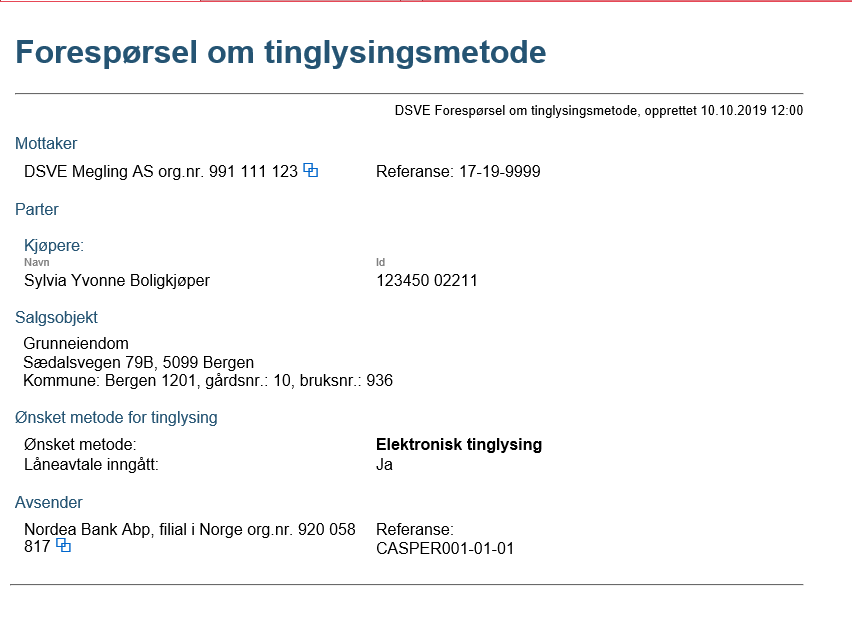
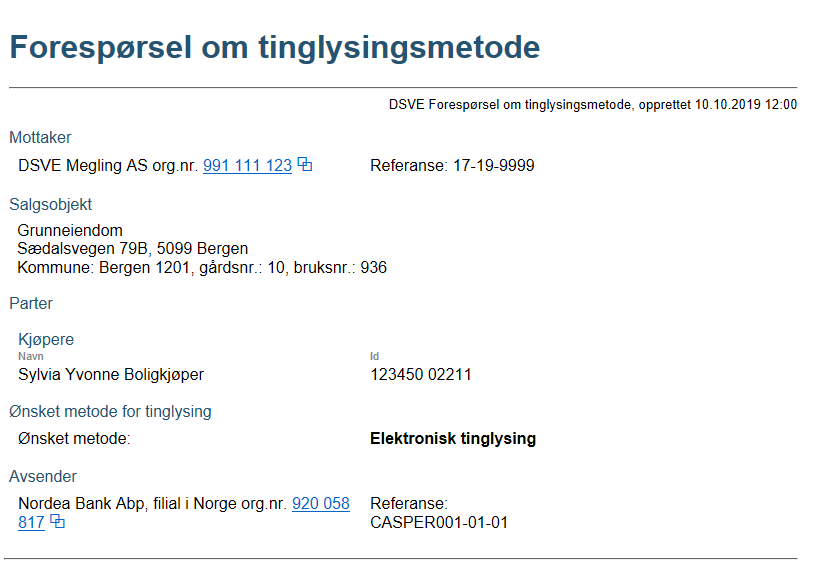
oppdatert etter arbeidsmøte. droppet info om låneavtale inngått. innført info om megler har papirutgave av signert skjøte. fjernet status uavklart og håndterer ack/nack som manifest keys "status" og "statusDescription" som ligger utenfor selve meldingspayload (tilsvarende metode brukt for overføring

diff --git a/spesifikasjoner/afpant/afpant-intensjon/intensjon-0-1-0.md b/spesifikasjoner/afpant/afpant-intensjon/intensjon-0-1-0.md
@@ -1,28 +1,30 @@
 # Intensjon om ønsket tinglysingsmetode 
-En bank kan sende forespørsel om tinglysingsmetode til en megler basert på kjøpers fødsels- og personnummer og eiendomsobjektet som skal finansieres. Banken inkluderer sin egen intensjon om tinglysingsmetode i forespørselen. Banken kan også angi (valgfritt) om hvorvidt låneavtale er inngått. 
+En bank kan sende forespørsel om tinglysingsmetode til en megler basert på kjøpers fødsels- og personnummer og eiendomsobjektet som skal finansieres. Banken inkluderer sin egen intensjon om tinglysingsmetode i forespørselen. 
 
-I et scenario hvor boligkjøper har innhentet tilbud fra flere banker vil megler måtte forvente å motta forespørsel om intensjon fra flere banker. Informasjon om at låneavtale er inngått er en saksopplysning til megler som kan forenkle videre samhandling.
+I et scenario hvor boligkjøper har innhentet tilbud fra flere banker vil megler måtte forvente å motta forespørsel om intensjon fra flere banker. 
 
-Megler vil besvare forespørselen med en forsendelse som inneholder strukturerte data samt gjeldende intensjon om tinglysingmetode.
+Megler vil besvare forespørselen med en forsendelse som inneholder strukturerte data om eiendommen og partene, gjeldende intensjon om tinglysingmetode samt informasjon om hvorvidt signert skjøte/hjemmelsovergang på papir er registrert i meglers depot (papir er reserveløsning).
 
 *NB!* Bank må håndtere at gjeldende metode kan ha verdi  "**Uavklart**" (megler har ikke tatt stilling til metode).
 
 Dersom forespørselen ikke kan besvares, vil banken få en feilmelding i retur som beskriver hvorfor megler ikke kan besvare forespørselen.
-
-## Forspørsel om intensjon
-Forespørsel sendes mellom partene for å få vite mottakers gjeldende intensjon om tinglysingmetode, i tillegg til å opplyse om avsenders gjeldende intensjon.
-Det forventes at positivt svar er en melding som definert under.
-
+ 
 ## Håndtering av endret intensjon
 Ved endringer i valgt tinglysingmetode må det kringkastes en oppdatering fra den som endrer sin intensjon. 
 
-### Implementasjonsbeskrivelse: ruting (meglersystem)
+## Validering og ruting
+### Ruting (meglersystem)
 - mottakende systemleverandør søker blant alle sine kunders matrikkelenhet(er)
 - utvalget avgrenses til matrikkelenheter som tilhører meglersaker hvor organisasjonsnummeret til _enten_ meglerforetaket eller oppgjørsforetaket på meglersaken er lik organisasjonsnummeret pantedokumentet er sendt til ("reportee")
 - utvalget avgrenses til meglersaker hvor **minst 1 kjøper i forespørselen er registrert som kjøper på meglersaken** 
  
-### Implementasjonsbeskrivelse: ruting (banksystem)
-@TODO: angi fornuftige krav til ruting ved kringkasting av endring fra meglersystem til banksystem.
+### Ruting (banksystem)
+- mottakende systemleverandør søker blant alle sine kunders matrikkelenhet(er) 
+- utvalget avgrenses til lånesaker hvor **minst 1 kjøper i forespørselen er registrert som debitor i lånesaken** 
+
+## Forespørsel om intensjon
+Forespørsel sendes mellom partene for å få vite mottakers gjeldende intensjon om tinglysingmetode, i tillegg til å opplyse om avsenders gjeldende intensjon.
+
 
 ### Manifest
 (BrokerServiceInitiation.Manifest.PropertyList)
@@ -35,10 +37,10 @@ Ved endringer i valgt tinglysingmetode må det kringkastes en oppdatering fra de
 En ZIP-fil som inneholder en XML med requestdata ihht. [definert skjema.](../afpant-model/xsd/dsve-1.0.0.xsd)
 
 #### Om payload *(request)*
-- En xml-fil som er i henhold til xsd-filen.
+- En xml-fil av modell **Intensjonsforespoersel** som er i henhold til [definert skjema.](../afpant-model/xsd/dsve-1.0.0.xsd)
 - [Se eksempel på presentasjon](examples/intensjonsforespoersel-example.png)
 
-##### Model
+##### Modell
 ![model intensjonsforespørsel](examples/intensjonsforespoersel-model.png "Model for forespørsel om kjøpekontrakt")
 <hr/>
 
@@ -53,22 +55,23 @@ Dersom avsender oppgir referanse skal denne inkluderes som mottakers referanse i
 |Manifest key|Type|Required|Beskrivelse|
 |--- |--- |--- |--- |
 |messageType|String|Yes|JudicialRegistrationMethodIntentResponse|
+|status|String (enum)|Yes|Denne kan være en av følgende statuser: <br>- RoutedSuccessfully <br>- UnknownJudicialRegistrationMethod (Kun relevant ved svar fra megler til bank: megler har ikke tatt stilling til tinglysingsmetode) <br>- UnknownCadastre (ukjent matrikkelenhet) <br>- BuyerMismatch (fant matrikkelenhet, men kjøper eller navn/id på kjøper matcher ikke registrerte data hos mottaker) <br>- Rejected (sendt til et organisasjonsnummer som ikke lenger har et aktivt kundeforhold hos leverandøren - feil config i Altinn AFPANT, eller ugyldig forsendelse).<br><br>Kun status '**RoutedSuccessfully**' er å anse som ACK (positive acknowledgement) hvor . Øvrige statuser er å anse som NACK (negative acknowledgement).|
+|statusDescription|String|Yes|Inneholder en utfyllende human-readable beskrivelse om hvorfor en forsendelse ble NACK'et.|
 
 ### Payload
-En ZIP-fil som inneholder en XML med responsdata ihht. gitte xsd.
-Tilknytting av ZIP-fil til forsendelsen kan gjøres ved bruk av BrokerServiceExternalBasicStreamedClient / StreamedPayloadBasicBE.
+En ZIP-fil som inneholder en XML med requestdata ihht. [definert skjema.](../afpant-model/xsd/dsve-1.0.0.xsd)
 		
 #### Om payload *(response)*
 
-##### Positiv resultat
-- Må være en xml-fil som er ihht. [definert skjema](../afpant-model/xsd/dsve-1.0.0.xsd).
-- Se eksempel på presentasjon [Eksempel](examples/intensjonssvar-example.png)
+##### Positiv resultat (ACK)
+- Må være en xml-fil av modell **Intensjonssvar** som er ihht. [definert skjema](../afpant-model/xsd/dsve-1.0.0.xsd).
+- Se eksempel på presentasjon: [Eksempel](examples/intensjonssvar-example.png)
 
-##### Model
+##### Modell
 ![model intensjon](examples/intensjonssvar-model.png "Model for intensjonssvar")
 
-##### Negativt resultat
-- @todo: Må definere hvor ack/navk-informasjon skal legges
+##### Negativt resultat (NACK)
+- Tom payload returneres (ZIP arkiv med dummy innhold). Manifest key "status" og "statusDescription" må avleses for årsak. 
 
 ## Eksempel
 

diff --git a/README.md b/README.md
@@ -72,8 +72,7 @@ Websystemer AS | Megler
 Nordea | Bank
 Evry | Bank
 
-#### Aktørregister (under utarbeidelse)
-Et aktørregister er under utarbeidelse. Aktørregisteret blir utviklet og administrert av Kartverket.  Aktørregisteret har oversikt over hvilke organisasjonsnumre (banker og eiendomsmeglere) som er mulig å samhandle med, samt hvilke meldingstyper hver organisasjon har implementert støtte for.
+
  
 #### Dokumentpakke 1 - Elektronisk tinglysing
 ##### Kjøpers pantedokument og evt følgebrev
@@ -81,6 +80,19 @@ Et aktørregister er under utarbeidelse. Aktørregisteret blir utviklet og admin
 * Overføring av følgebrev som PDF eller XML 
 * ACK/NACK-kvittering fra mottakersystem til avsendersystem med informasjon om forsendelsen kunne rutes korrekt
 * [Oversikt og spesifikasjoner](https://github.com/bitsnorge/e-tinglysing-afpant/blob/master/spesifikasjoner/afpant/afpant-kjøperspantedokument/readme.md)
+
+##### Intensjonsmelding
+* Forespørsel og statusoppdatering mellom bank <-> megler om det er planlagt bruk av  elektronisk tinglysing.
+* [Spesifikasjon er under utarbeidelse](https://github.com/bitsnorge/e-tinglysing-afpant/issues/4)
+
+
+##### Statusoppdatering etter e-tinglysing
+* Statusoppdatering fra megler til kjøpers bank etter gjennomført e-tinglysing for overføring av tinglysingsdetaljer (dokumentnummer)
+* [Spesifikasjon er under utarbeidelse](https://github.com/bitsnorge/e-tinglysing-afpant/issues/3)
+
+##### Aktørregister
+Et aktørregister er under utarbeidelse av Kartverket.  Aktørregisteret har oversikt over hvilke organisasjonsnumre (banker og eiendomsmeglere) som er mulig å samhandle med, samt hvilke meldingstyper hver organisasjon har implementert støtte for. Testmiljø tilgjengeliggjøres ultimo juni 2019.
+<hr>
 
 #### Dokumentpakke 2 -  Digital datautveksling bank/megler (under utarbeidelse)
 ##### Kjøpekontrakt 
@@ -96,11 +108,3 @@ Et aktørregister er under utarbeidelse. Aktørregisteret blir utviklet og admin
 * Forespørsel om saldoer for innfrielse av tinglyst pant fra megler til bank eller bank til bank
 * [Spesifikasjon](https://github.com/bitsnorge/e-tinglysing-afpant/blob/master/spesifikasjoner/afpant/afpant-restgjeldsoppgave/afpant-restgjeldsoppgave.md)
 
-##### Intensjonsmelding
-* Forespørsel og statusoppdatering mellom bank <-> megler om det er planlagt bruk av  elektronisk tinglysing.
-* [Spesifikasjon er under utarbeidelse](https://github.com/bitsnorge/e-tinglysing-afpant/issues/4)
-
-
-##### Statusoppdatering etter e-tinglysing
-* Statusoppdatering fra megler til kjøpers bank etter gjennomført e-tinglysing for overføring av tinglysingsdetaljer (dokumentnummer)
-* [Spesifikasjon er under utarbeidelse](https://github.com/bitsnorge/e-tinglysing-afpant/issues/3)
